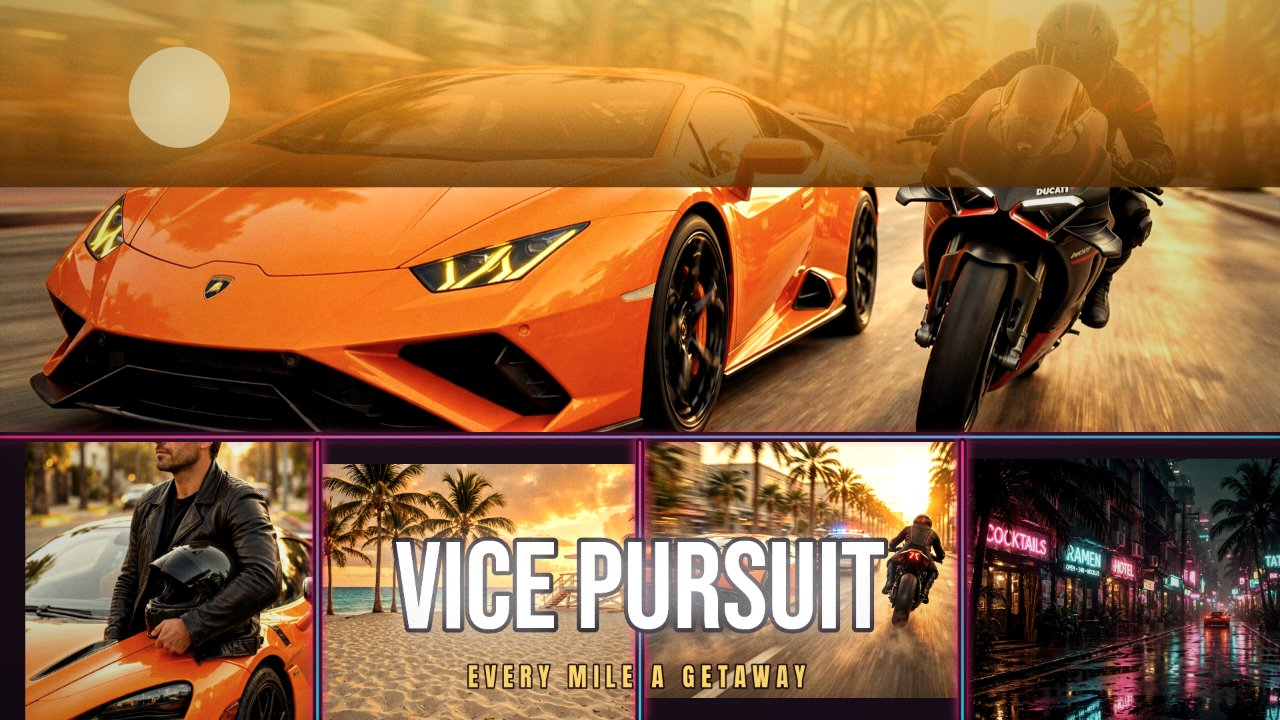
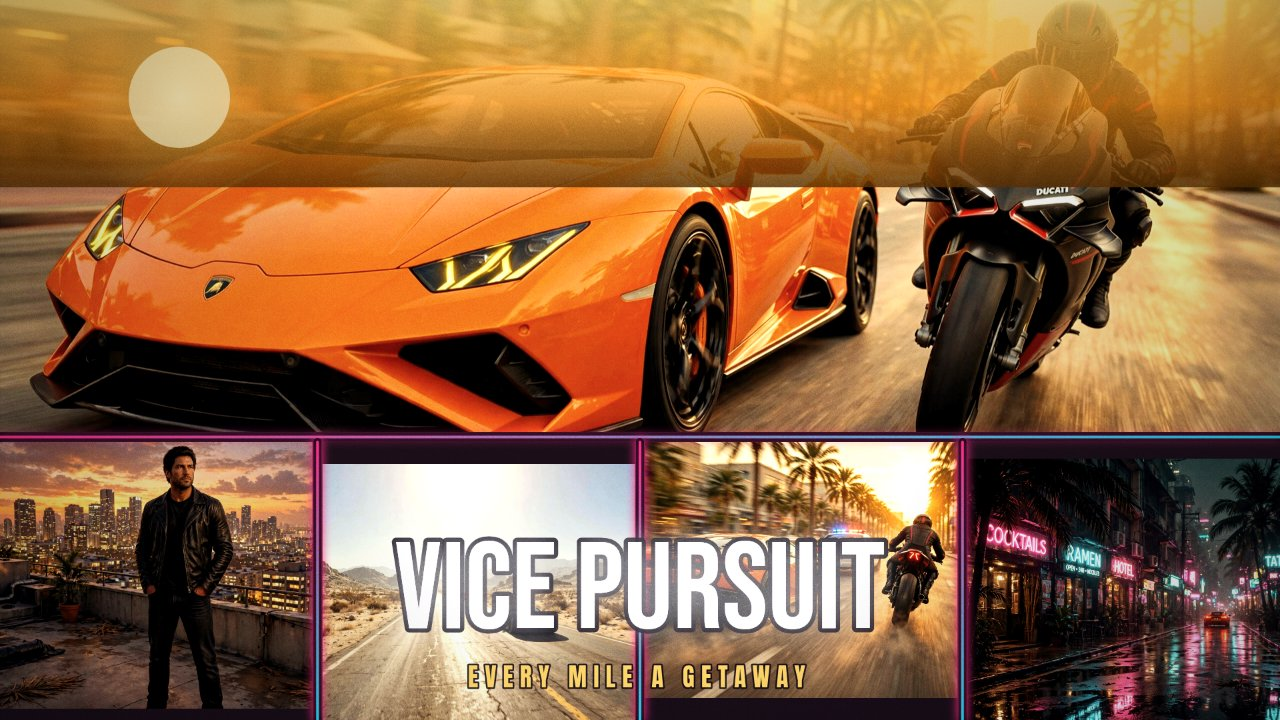
NEON PURSUIT strip + VICE PURSUIT strip: five distinct panels per Sand's 08:06 + 08:07 notes
- 3-cover (NEON PURSUIT): woman-inside-car (Sand's example), police chase, bright daytime beach — all different photos/conditions, no more triple orange-Lambo sunset
- 1-cover (VICE PURSUIT): rooftop man at dusk (solid, opaque, feet on ground) replaces the semi-transparent driver; desert highway at noon replaces the sunset beach
- Titles/taglines, hero (Lambo + Ducati), header untouched

Changed region(s): [[0.0, 0.6111, 0.5, 1.0]]

diff --git a/app/src/shots.js b/app/src/shots.js
@@ -27,6 +27,12 @@ const SAMPLES_BY_KEY = {
   neon: 'samples/media-generation-neon-0-3e780550-f969-4fd0-9588-3129c57b47bf.jpg',
   detail: 'samples/media-generation-detail-0-15f66890-fad8-431e-9daa-17cd1d5fcbf8.jpg',
   desert: 'samples/media-generation-media-generation-desert-0-0-0a350fe7-a7ce-4223-9abc-c3d5fddbe128.jpg',
+  // New distinct scenes (Sand's 08:06 + 08:07 fixes): each is a different
+  // photo and a different condition, so no strip ever repeats a look.
+  womaninside: 'samples/media-generation-woman-inside-0-032b851c-2e53-4798-a1a3-6b648868c93c.jpg',
+  beachday: 'samples/media-generation-beach-day-0-cbf349ba-457e-48ff-a4dc-2d402c285bba.jpg',
+  rooftop: 'samples/media-generation-rooftop-dusk-0-94866e7c-e26f-4a72-8d61-d36aa416924c.jpg',
+  desertnoon: 'samples/media-generation-desert-noon-0-41dfc5d7-5556-4985-8a80-5408ee2d0b62.jpg',
 };
 const DEFAULT_ORDER = ['chase', 'driver', 'beach', 'police', 'woman', 'neon', 'detail', 'desert'];
 
